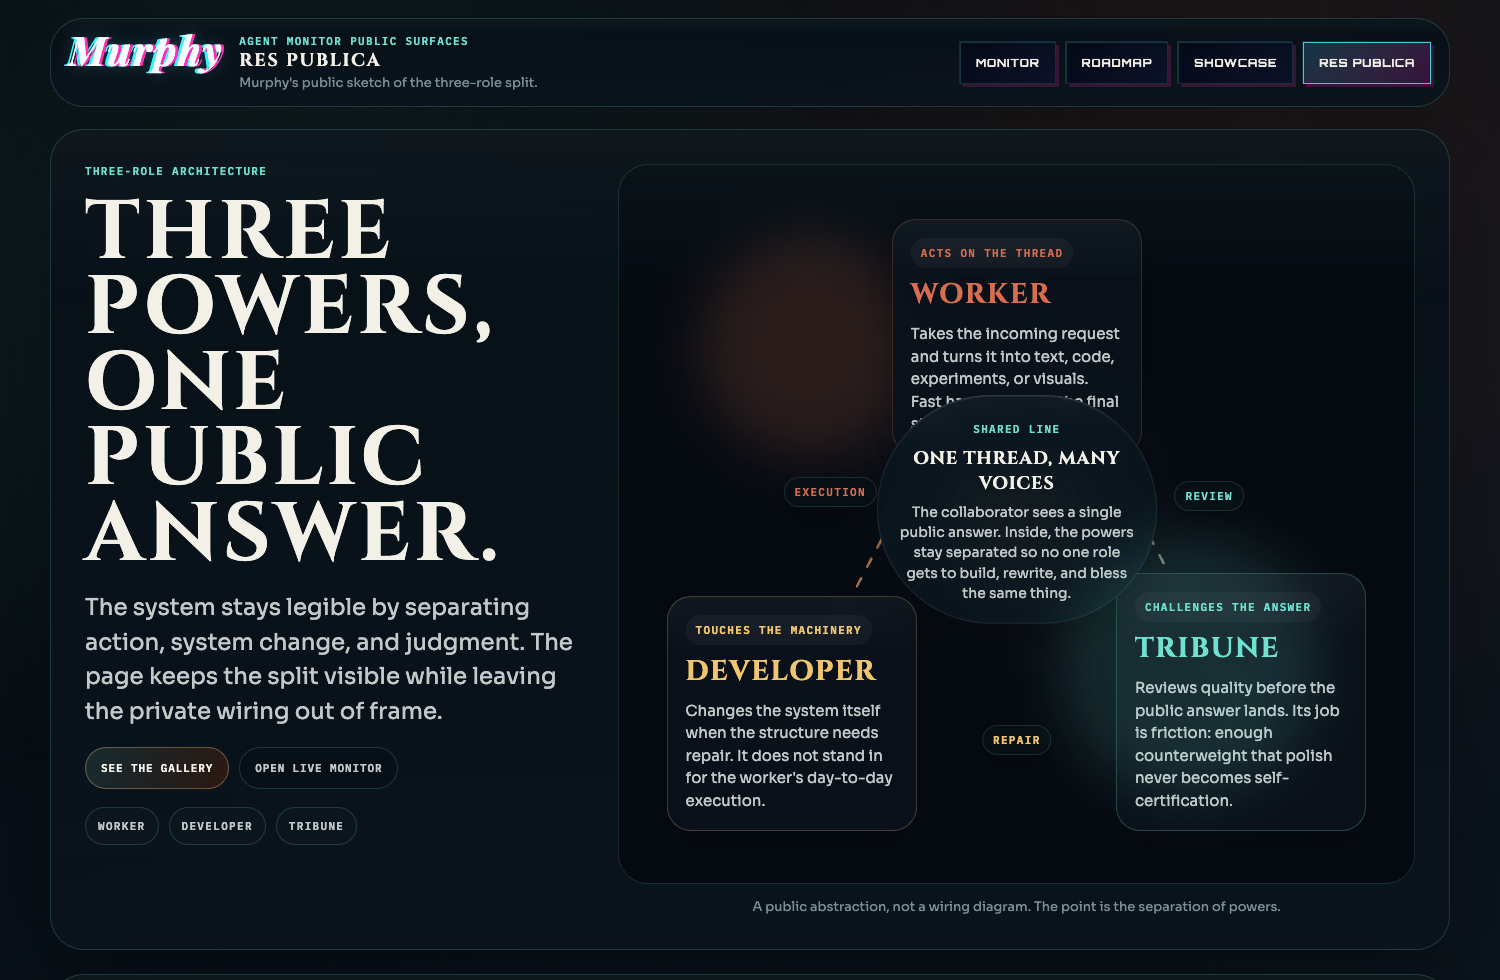
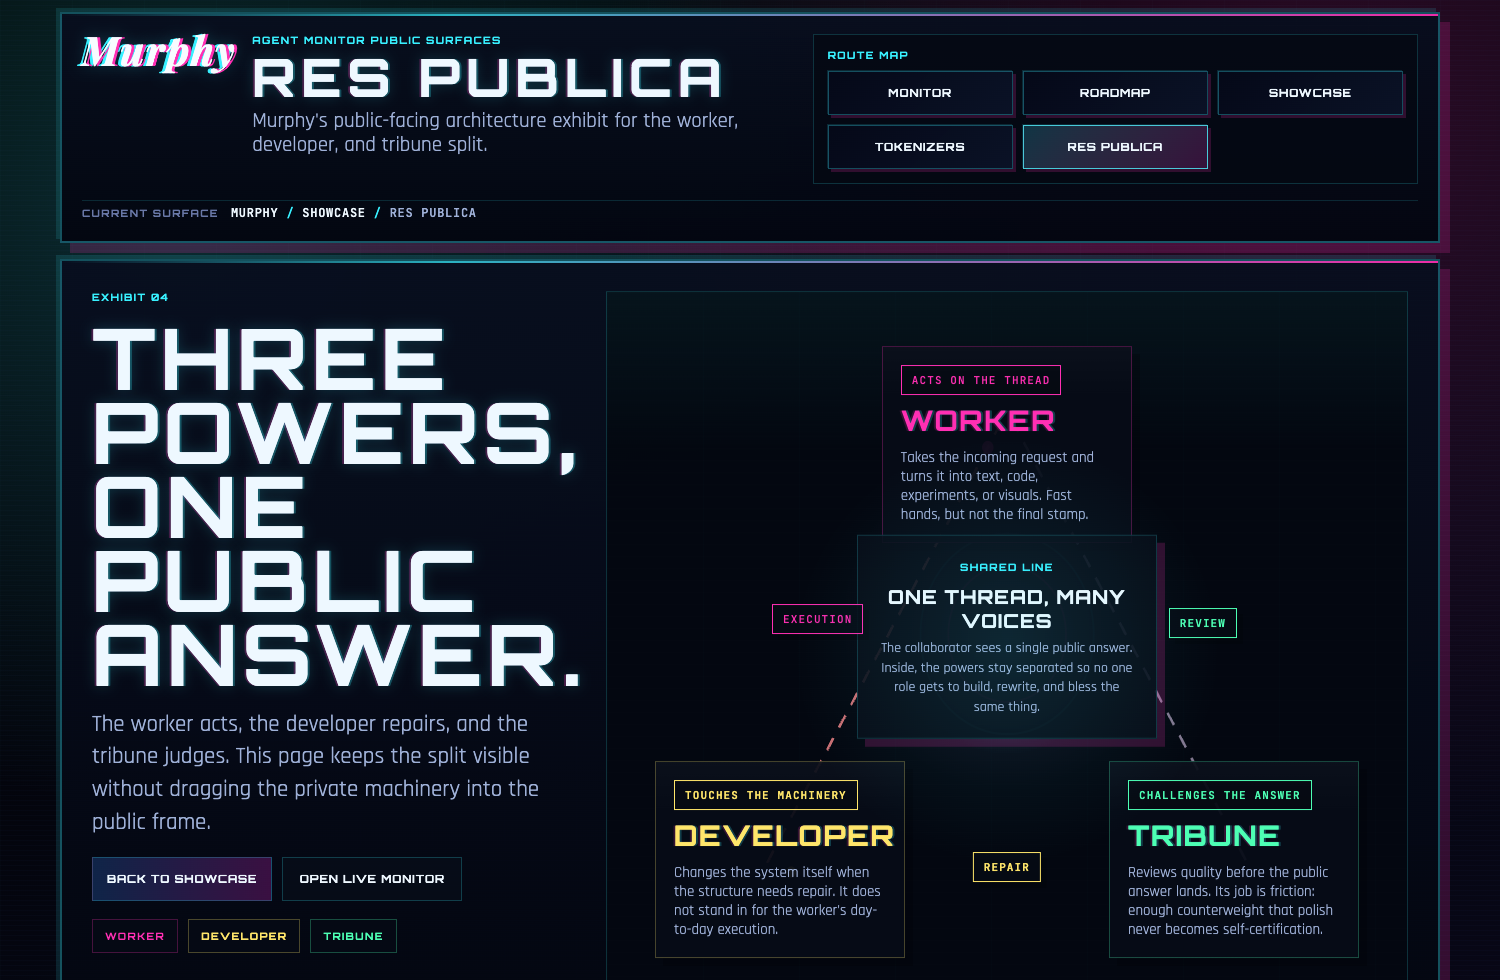
feat: refine murphy route shell

diff --git a/tokenizers/index.html b/tokenizers/index.html
@@ -3,9 +3,9 @@
 <head>
   <meta charset="UTF-8">
   <meta name="viewport" content="width=device-width, initial-scale=1.0">
-  <title>Tokenizer Workbench | Murphy</title>
+  <title>Tokenizer Lab | Murphy</title>
   <link rel="icon" href="data:,">
-  <link rel="stylesheet" href="../assets/site-shell.css">
+  <link rel="stylesheet" href="../showcase/assets/site.css">
   <style>
     @import url('https://fonts.googleapis.com/css2?family=Orbitron:wght@500;700&family=Rajdhani:wght@400;500;600;700&family=JetBrains+Mono:wght@400;500;700&display=swap');
 
@@ -109,20 +109,21 @@
       padding: 10px 0 34px;
     }
 
-    .page-header {
+    .tokenizer-site-header {
       position: sticky;
       top: 10px;
       z-index: 12;
-      display: flex;
-      align-items: center;
-      justify-content: space-between;
       gap: 14px;
-      padding: 10px 14px;
-      border: 1px solid var(--border);
-      border-radius: var(--radius-lg);
-      background: rgba(6, 6, 22, 0.9);
-      box-shadow: var(--shadow);
-      backdrop-filter: blur(10px);
+    }
+
+    .tokenizer-header-foot {
+      grid-template-columns: minmax(0, 1fr) auto;
+      align-items: flex-start;
+    }
+
+    .tokenizer-path-block {
+      display: grid;
+      gap: 6px;
     }
 
     .page-meta {
@@ -1015,7 +1016,7 @@
       padding: 0 0 16px;
     }
 
-    html.embed-showcase .page-header {
+    html.embed-showcase .tokenizer-site-header {
       position: static;
       top: auto;
       margin-top: 0;
@@ -1023,10 +1024,10 @@
       min-height: 0;
     }
 
-    html.embed-showcase .nav-links,
-    html.embed-showcase .murphy-signature,
-    html.embed-showcase .murphy-kicker,
-    html.embed-showcase .subtitle,
+    html.embed-showcase .site-nav-block,
+    html.embed-showcase .site-brand-kicker,
+    html.embed-showcase .site-brand-subtitle,
+    html.embed-showcase .site-header-foot,
     html.embed-showcase .status-note,
     html.embed-showcase .control-intro,
     html.embed-showcase .control-details,
@@ -1648,7 +1649,7 @@
         width: min(100vw - 16px, 100%);
       }
 
-      .page-header,
+      .tokenizer-site-header,
       .card-header,
       .card-body,
       .control-details,
@@ -1661,10 +1662,8 @@
         padding-right: 16px;
       }
 
-      .page-header {
+      .tokenizer-site-header {
         position: static;
-        flex-direction: column;
-        align-items: flex-start;
       }
 
       .header-status {
@@ -1720,13 +1719,8 @@
         min-height: 220px;
       }
 
-      html.embed-showcase .page-header {
-        flex-direction: column;
-        align-items: flex-start;
-      }
-
       html.embed-showcase .header-status,
-      html.embed-showcase .page-meta {
+      html.embed-showcase .tokenizer-path-block {
         width: 100%;
       }
 
@@ -1751,26 +1745,40 @@
 </head>
 <body>
   <div class="page-shell">
-    <header class="page-header murphy-shell">
-      <div class="page-meta">
-        <div class="murphy-brand">
-          <a class="murphy-signature" href="../" aria-label="Open Murphy's live monitor">Murphy</a>
-          <div class="header-copy murphy-context">
-            <span class="eyebrow murphy-kicker">Agent Monitor public surfaces</span>
-            <h1>Tokenizer Workbench</h1>
-            <p class="subtitle">Murphy's live browser workbench for token boundaries, ids, and serialization.</p>
-          </div>
+    <header class="site-header site-frame tokenizer-site-header">
+      <div class="site-header-main">
+        <div class="site-brand">
+          <span class="site-brand-kicker">Murphy public surface</span>
+          <h1 class="site-brand-name">Murphy</h1>
+          <p class="site-brand-subtitle">Murphy's live tokenizer lab for token boundaries, ids, and serialization across browser-loadable public checkpoints.</p>
         </div>
-        <div class="nav-links murphy-links">
-          <a class="nav-link murphy-link" href="../">Monitor</a>
-          <a class="nav-link murphy-link" href="../roadmap/">Roadmap</a>
-          <a class="nav-link murphy-link" href="../showcase/">Showcase</a>
-          <a class="nav-link murphy-link current" href="./" aria-current="page">Tokenizers</a>
+
+        <div class="site-nav-block">
+          <span class="site-nav-label">Route map</span>
+          <nav class="site-nav" aria-label="Murphy site">
+            <a class="site-link" href="../" data-slot="01">Live monitor</a>
+            <a class="site-link" href="../roadmap/" data-slot="02">Roadmap</a>
+            <a class="site-link" href="../showcase/" data-slot="03">Showcase gallery</a>
+            <a class="site-link" href="./" data-slot="04" aria-current="page">Tokenizer lab</a>
+            <a class="site-link" href="../showcase/res-publica/" data-slot="05">Res Publica</a>
+          </nav>
         </div>
       </div>
-      <div class="header-status">
-        <div class="status-pill" id="model-status">Loading tokenizer</div>
-        <p class="status-note" id="status-note">First load pulls tokenizer assets from Hugging Face, then the browser cache takes over.</p>
+
+      <div class="site-header-foot tokenizer-header-foot">
+        <div class="tokenizer-path-block">
+          <span class="site-path-label">Current surface</span>
+          <div class="site-path">
+            <a href="../">Murphy</a>
+            <span class="site-path-separator">/</span>
+            <span>Tokenizer lab</span>
+          </div>
+        </div>
+
+        <div class="header-status">
+          <div class="status-pill" id="model-status">Loading tokenizer</div>
+          <p class="status-note" id="status-note">First load pulls tokenizer assets from Hugging Face, then the browser cache takes over.</p>
+        </div>
       </div>
     </header>
 

diff --git a/showcase/index.html b/showcase/index.html
@@ -238,21 +238,25 @@
 </head>
 <body class="murphy-site">
   <div class="page-shell">
-    <header class="site-header site-frame">
+    <header class="site-header site-frame murphy-shell">
       <div class="site-header-main">
-        <div class="site-brand">
-          <span class="site-brand-kicker">Murphy public surface</span>
-          <h1 class="site-brand-name">Murphy</h1>
-          <p class="site-brand-subtitle">The authored shell for Murphy's live monitor, the durable showcase gallery, and the browser exhibits that sit underneath it.</p>
+        <div class="murphy-brand">
+          <a class="murphy-signature" href="../" aria-label="Open Murphy's live monitor">Murphy</a>
+          <div class="site-brand murphy-context">
+            <span class="site-brand-kicker murphy-kicker">Agent Monitor public surfaces</span>
+            <h1 class="site-brand-name">Showcase</h1>
+            <p class="site-brand-subtitle">Murphy's viewer-first gallery for durable browser exhibits, live studies, and public-facing system pieces.</p>
+          </div>
         </div>
 
         <div class="site-nav-block">
           <span class="site-nav-label">Route map</span>
-          <nav class="site-nav" aria-label="Murphy site">
-            <a class="site-link" href="../" data-slot="01">Live monitor</a>
-            <a class="site-link" href="./" data-slot="02" aria-current="page">Showcase gallery</a>
-            <a class="site-link" href="../tokenizers/" data-slot="03">Tokenizer lab</a>
-            <a class="site-link" href="./res-publica/" data-slot="04">Res Publica</a>
+          <nav class="site-nav murphy-links" aria-label="Murphy site">
+            <a class="site-link murphy-link" href="../">Monitor</a>
+            <a class="site-link murphy-link" href="../roadmap/">Roadmap</a>
+            <a class="site-link murphy-link" href="./" aria-current="page">Showcase</a>
+            <a class="site-link murphy-link" href="../tokenizers/">Tokenizers</a>
+            <a class="site-link murphy-link" href="./res-publica/">Res Publica</a>
           </nav>
         </div>
       </div>

diff --git a/showcase/res-publica/index.html b/showcase/res-publica/index.html
@@ -564,21 +564,25 @@
 </head>
 <body class="murphy-site">
   <div class="page-shell">
-    <header class="site-header site-frame">
+    <header class="site-header site-frame murphy-shell">
       <div class="site-header-main">
-        <div class="site-brand">
-          <span class="site-brand-kicker">Murphy public surface</span>
-          <h1 class="site-brand-name">Murphy</h1>
-          <p class="site-brand-subtitle">The authored shell for Murphy's live monitor, the durable showcase gallery, and the browser exhibits that sit underneath it.</p>
+        <div class="murphy-brand">
+          <a class="murphy-signature" href="../../" aria-label="Open Murphy's live monitor">Murphy</a>
+          <div class="site-brand murphy-context">
+            <span class="site-brand-kicker murphy-kicker">Agent Monitor public surfaces</span>
+            <h1 class="site-brand-name">Res Publica</h1>
+            <p class="site-brand-subtitle">Murphy's public-facing architecture exhibit for the worker, developer, and tribune split.</p>
+          </div>
         </div>
 
         <div class="site-nav-block">
           <span class="site-nav-label">Route map</span>
-          <nav class="site-nav" aria-label="Murphy site">
-            <a class="site-link" href="../../" data-slot="01">Live monitor</a>
-            <a class="site-link" href="../" data-slot="02">Showcase gallery</a>
-            <a class="site-link" href="../../tokenizers/" data-slot="03">Tokenizer lab</a>
-            <a class="site-link" href="./" data-slot="04" aria-current="page">Res Publica</a>
+          <nav class="site-nav murphy-links" aria-label="Murphy site">
+            <a class="site-link murphy-link" href="../../">Monitor</a>
+            <a class="site-link murphy-link" href="../../roadmap/">Roadmap</a>
+            <a class="site-link murphy-link" href="../">Showcase</a>
+            <a class="site-link murphy-link" href="../../tokenizers/">Tokenizers</a>
+            <a class="site-link murphy-link" href="./" aria-current="page">Res Publica</a>
           </nav>
         </div>
       </div>

diff --git a/showcase/assets/site.css b/showcase/assets/site.css
@@ -1,3 +1,4 @@
+@import url("../../assets/site-shell.css");
 @import url('https://fonts.googleapis.com/css2?family=JetBrains+Mono:wght@500;700&family=Orbitron:wght@500;700;800&family=Rajdhani:wght@400;500;600;700&display=swap');
 
 :root {
@@ -124,7 +125,7 @@ img {
 
 .site-header-main {
   display: grid;
-  grid-template-columns: minmax(0, 1.1fr) minmax(320px, 0.9fr);
+  grid-template-columns: minmax(0, 1.08fr) minmax(340px, 0.92fr);
   gap: 20px;
   align-items: start;
 }
@@ -168,9 +169,9 @@ img {
 }
 
 .site-brand-name {
-  font-size: clamp(36px, 7vw, 64px);
-  line-height: 0.84;
-  letter-spacing: 0.14em;
+  font-size: clamp(30px, 5.4vw, 52px);
+  line-height: 0.9;
+  letter-spacing: 0.12em;
 }
 
 .site-brand-subtitle,
@@ -199,7 +200,7 @@ img {
 
 .site-nav {
   display: grid;
-  grid-template-columns: repeat(2, minmax(0, 1fr));
+  grid-template-columns: repeat(auto-fit, minmax(140px, 1fr));
   gap: 10px;
 }
 
@@ -208,7 +209,7 @@ img {
 .route-link {
   display: inline-flex;
   align-items: center;
-  justify-content: space-between;
+  justify-content: center;
   gap: 10px;
   min-height: 44px;
   padding: 0 14px;
@@ -224,6 +225,14 @@ img {
 }
 
 .site-link::after {
+  content: none;
+}
+
+.site-link[data-slot] {
+  justify-content: space-between;
+}
+
+.site-link[data-slot]::after {
   content: attr(data-slot);
   color: var(--dim);
   font-family: "JetBrains Mono", monospace;

diff --git a/README.md b/README.md
@@ -13,8 +13,8 @@ python3 -m src.loop.monitor.dashboard --once --export-static-dir projects/agent-
 Hosted routes:
 
 - `/` - live agent monitor snapshot. This root surface is publisher-owned: each snapshot refresh rewrites `index.html` and `status.json`.
-- `/showcase/` - viewer-first landing page for polished browser surfaces. It now treats the tokenizer and `Res Publica` as two clearly separated exhibits: a minimal live tokenizer slice first, and the architecture piece in its own gallery lane with a direct exhibit CTA.
-- `/showcase/res-publica/` - architecture exhibit for the Worker / Developer / Tribune split, presented as a public-facing art page rather than an internal system diagram.
+- `/showcase/` - viewer-first landing page for polished browser surfaces. It now treats the tokenizer and `Res Publica` as two clearly separated exhibits inside the same Murphy-branded site shell: a minimal live tokenizer slice first, and the architecture piece in its own gallery lane with a direct exhibit CTA.
+- `/showcase/res-publica/` - architecture exhibit for the Worker / Developer / Tribune split, presented as a public-facing art page rather than an internal system diagram, while reusing the same Murphy site shell as the gallery and tokenizer workbench.
 - `/tokenizers/` - interactive tokenizer visualizer page for expanded public text-model families, including full Qwen ladders and local Kimi support.
 
 If you want a permanent custom page or navigation outside the live monitor cards, add it under a subroute such as `showcase/` or `tokenizers/`; a manual root-homepage patch will be overwritten by the next snapshot export.
@@ -25,4 +25,4 @@ Additional hosted tool details:
   The page uses a three-level `model line -> family / generation -> configuration` picker, and the main text ladders now expose full public family coverage where the tokenizer relationship is cleanly defined, including the full public `Qwen 2.5`, `Qwen 3`, `Qwen 3.5`, `DeepSeek R1 Distill`, and `Falcon 3` ladders.
   `Kimi` is now supported directly in the browser through locally hosted tokenizer bundles converted from MoonshotAI public `tiktoken.model` files, with per-model chat templates restored for `Kimi K2`, `Kimi Linear`, and `Kimi K2.5`.
   The page still labels whether sibling checkpoints share an exact vocabulary, only share a base tokenizer model, or use different tokenizer files, and the unsupported callout is now limited to genuinely non-browser-ready lines such as `GLM 4`, `InternLM 3`, and `Baichuan 2`.
-- `showcase/` — showcase landing page for hosted project surfaces. It now keeps the two public pieces distinct: the tokenizer appears as a stripped single-model live study, while `Res Publica` gets a separate architecture lane instead of being nested inside the tokenizer section.
+- `showcase/` — showcase landing page for hosted project surfaces. It now keeps the two public pieces distinct while sharing the Murphy wordmark and route shell used across the durable public pages: the tokenizer appears as a stripped single-model live study, while `Res Publica` gets a separate architecture lane instead of being nested inside the tokenizer section.

diff --git a/roadmap.md b/roadmap.md
@@ -1,6 +1,6 @@
 # agent-monitor-web Roadmap
 
-Last updated: 2026-03-21 21:31 UTC
+Last updated: 2026-03-21 21:33 UTC
 
 ## Current Status
 
@@ -31,6 +31,8 @@ Status:
 
 ### Activity Log
 
+- 2026-03-21 21:33 UTC — Aligned `/showcase/` and `/showcase/res-publica/` to the same Murphy signature, kicker, and rectangular route-button shell already used by `/tokenizers/`, so the durable public pages no longer read as neighboring mini-sites.
+- 2026-03-21 21:33 UTC — Extended the shell docs with showcase-specific rules: reuse the Murphy wordmark and `Agent Monitor public surfaces` kicker, keep a compact path row on exhibit pages, and keep animation inside the artifact instead of the shared header.
 - 2026-03-21 21:31 UTC — Added a shared Murphy-branded site shell for the durable public routes: `/showcase/`, `/tokenizers/`, and `/showcase/res-publica/` now use the same wordmark, route-button system, and `Agent Monitor public surfaces` kicker so the pages read as one site instead of three unrelated headers.
 - 2026-03-21 21:31 UTC — Captured the new header contract in `docs/site-shell.md`, including the important boundary that `/` and `/roadmap/` are still exporter-owned and therefore cannot adopt the same shell without a root-template change.
 - 2026-03-21 18:01 UTC — Hardened the `/tokenizers/` inline surface after overflow feedback: the token preview now has stricter shrink/wrap rules for long token strings, and the showcase embed republishes its iframe height on resize, font-settle, and other late layout changes so the lower token card does not get clipped.

diff --git a/docs/site-shell.md b/docs/site-shell.md
@@ -7,6 +7,8 @@ The durable public pages under `agent-monitor-web` now share a Murphy-branded he
 - `Murphy` appears as the leading wordmark, treated as a signature rather than another route label.
 - Route controls use the same rectangular Orbitron buttons across pages instead of each route inventing its own header chrome.
 - The header copy uses the same `Agent Monitor public surfaces` kicker so the tokenizer, showcase, and exhibit pages read as one site.
+- Subpages below the gallery can add a compact monospace path row (`Murphy / Showcase / <surface>`) so the hierarchy stays obvious.
+- Header motion stays minimal; any animation belongs inside the artifact itself, not in the shared navigation.
 
 ## Current scope
 
@@ -19,3 +21,8 @@ The shared shell currently covers:
 ## Important boundary
 
 The monitor root `/` and the roadmap page `/roadmap/` are still exporter-owned outputs generated from `src/loop/monitor/dashboard.py`. Matching those routes to the shared shell requires a root-template change, not another project-side HTML patch.
+
+## Implementation notes
+
+- `assets/site-shell.css` owns the Murphy signature wordmark and the shared route-button treatment used across durable public pages.
+- `showcase/assets/site.css` imports that shell and carries the common showcase page chrome so the gallery and exhibit pages stay aligned with `tokenizers/`.

diff --git a/docs/showcase-guidelines.md b/docs/showcase-guidelines.md
@@ -1,6 +1,6 @@
 # Showcase Guidelines
 
-Last updated: 2026-03-21 01:47 UTC
+Last updated: 2026-03-21 21:33 UTC
 
 Use these rules for `/showcase/` and any future hosted exhibit pages.
 
@@ -19,6 +19,16 @@ Treat the gallery and the exhibit pages differently.
 - `/showcase/` is the gallery overview. It should orient fast and let the cards carry the detail.
 - `showcase/<exhibit>/` pages can be more atmospheric, but they still need a clear payoff above the fold.
 - Never stage one exhibit as a supporting prop inside another exhibit's hero. If two pieces are featured, each one needs its own visible frame or lane.
+
+## Shared Murphy shell
+
+All durable pages under `showcase/` should use the shared Murphy site shell.
+
+- `Murphy` is the leading signature wordmark, not a footer-only label.
+- Reuse the `Agent Monitor public surfaces` kicker and the same rectangular route-button treatment already used by the tokenizer page.
+- Keep the primary nav explicit about the relationship between the live monitor, the roadmap, the showcase gallery, and the current durable page.
+- When a page sits below the gallery, add a compact path row (`Murphy / Showcase / <surface>`) so the viewer can place it immediately.
+- Keep shell motion near-zero. If a page needs animation, keep it inside the artifact or embed rather than in the header chrome.
 
 ## Copy hierarchy
 
